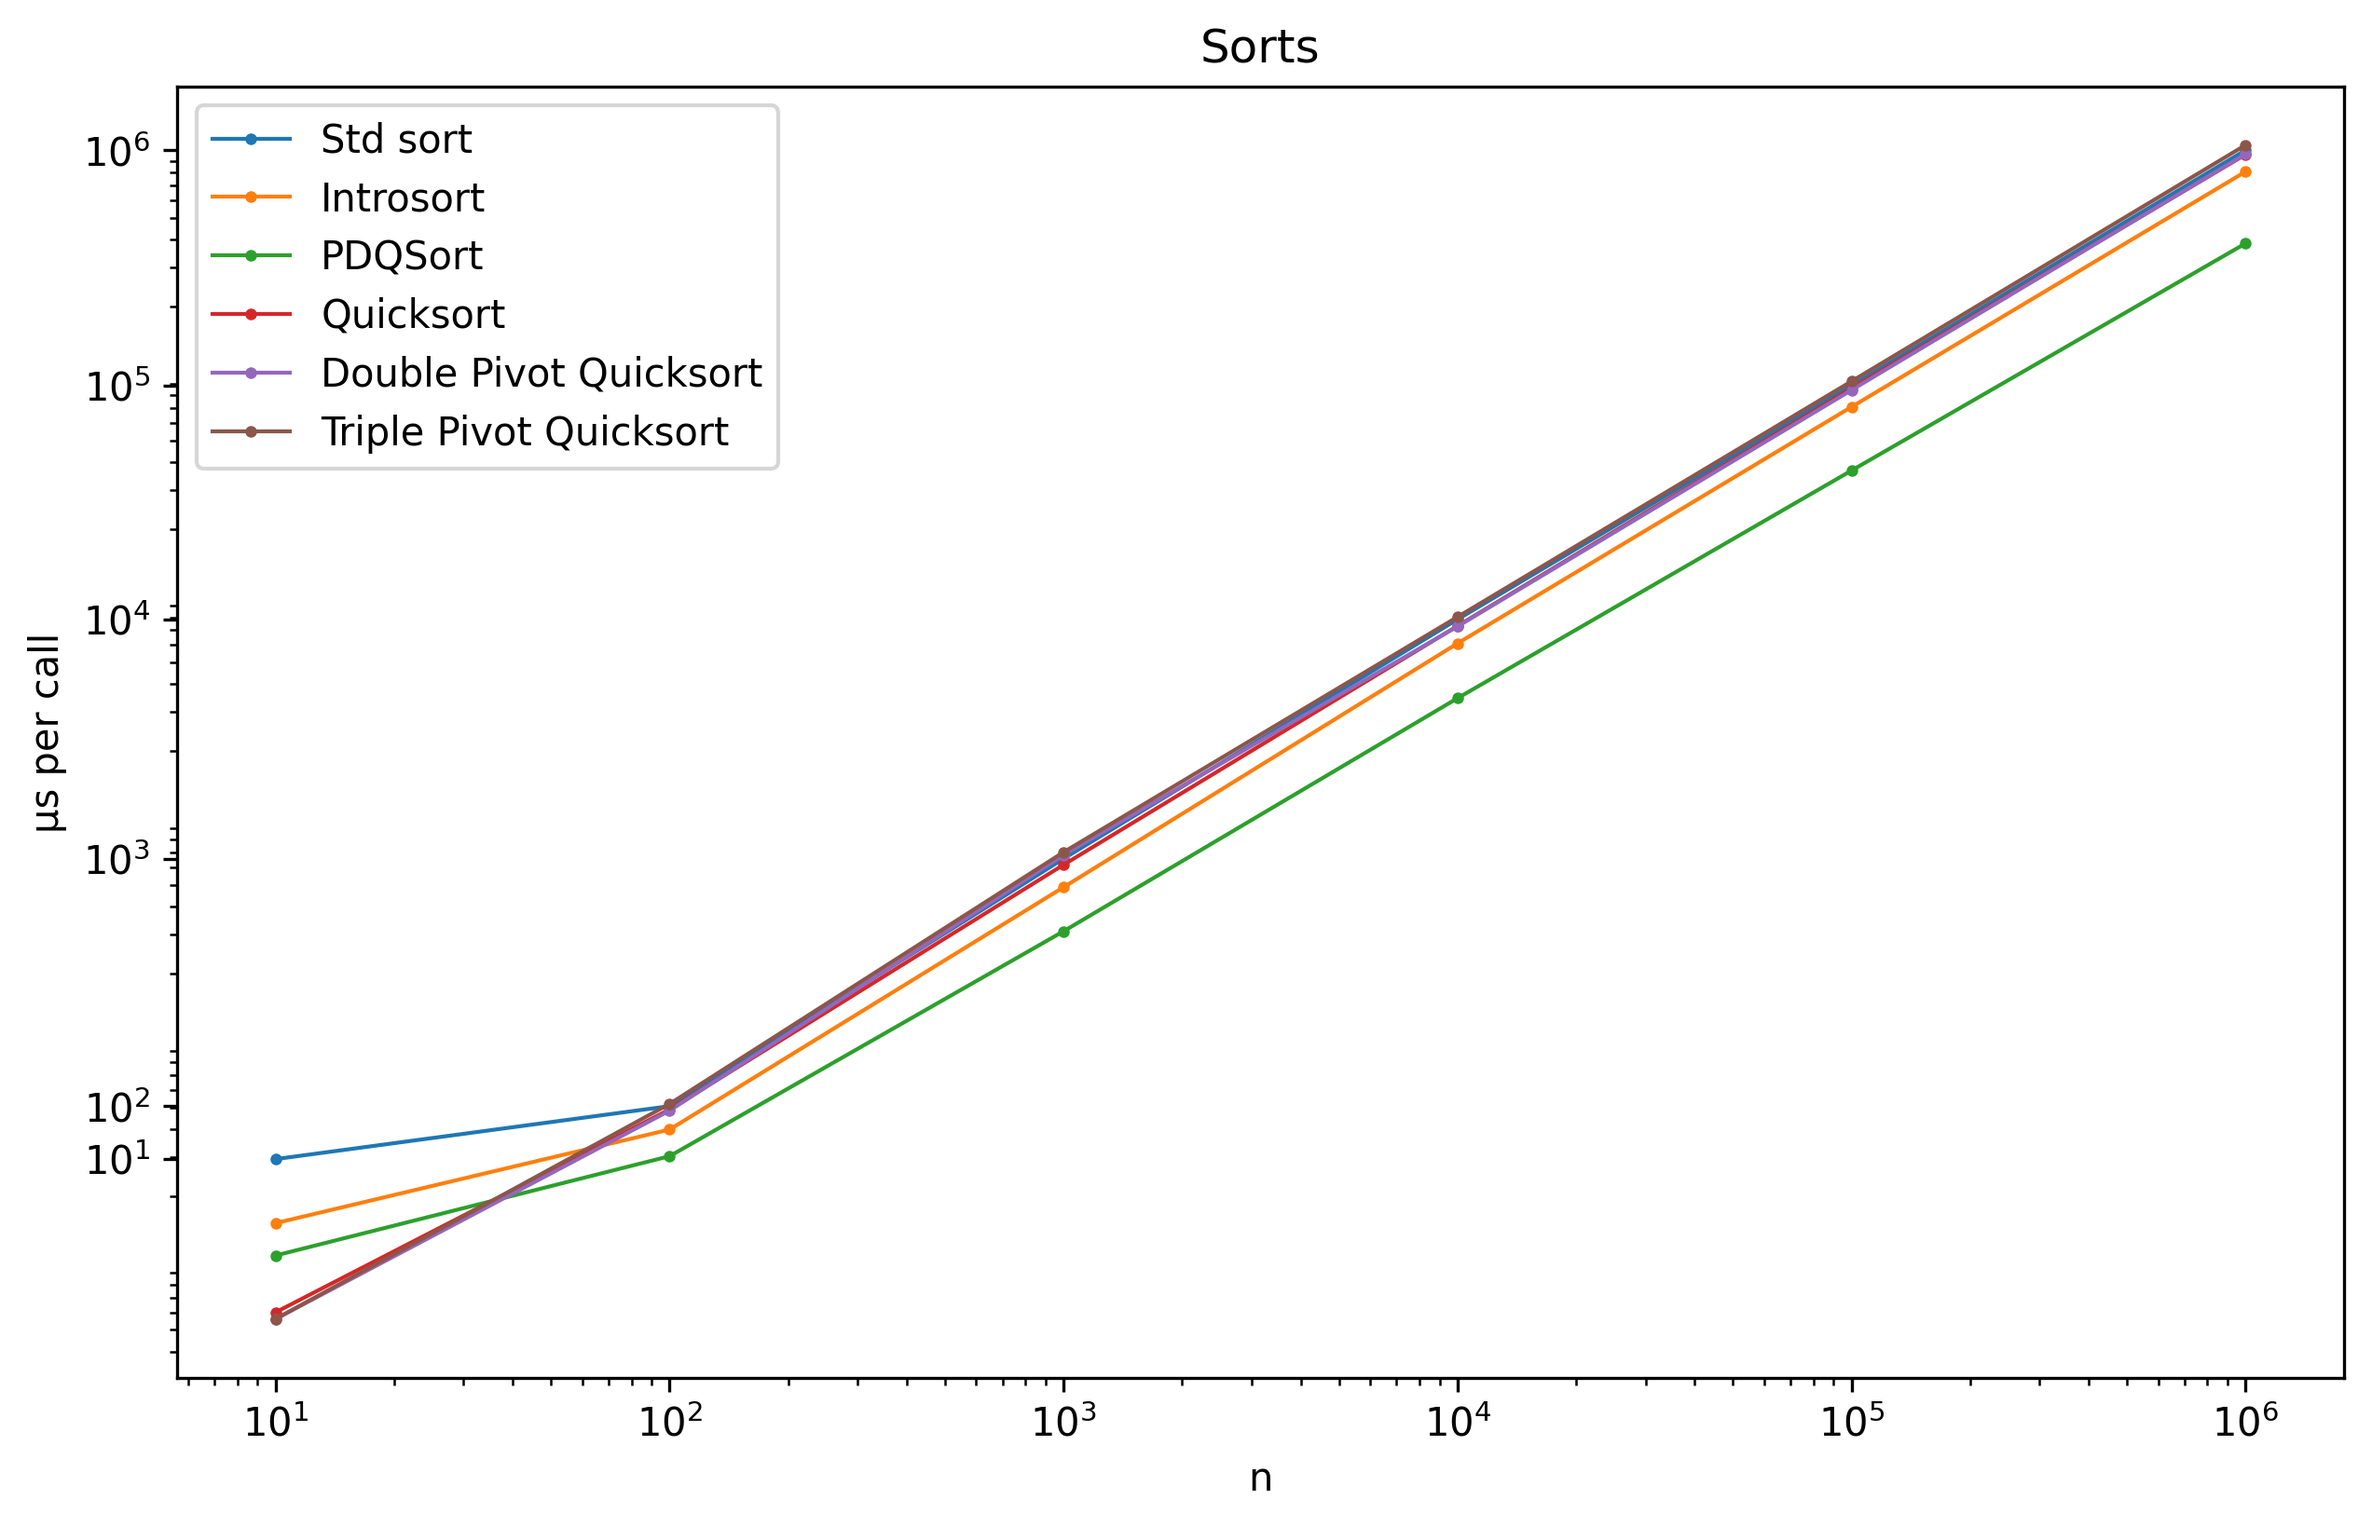
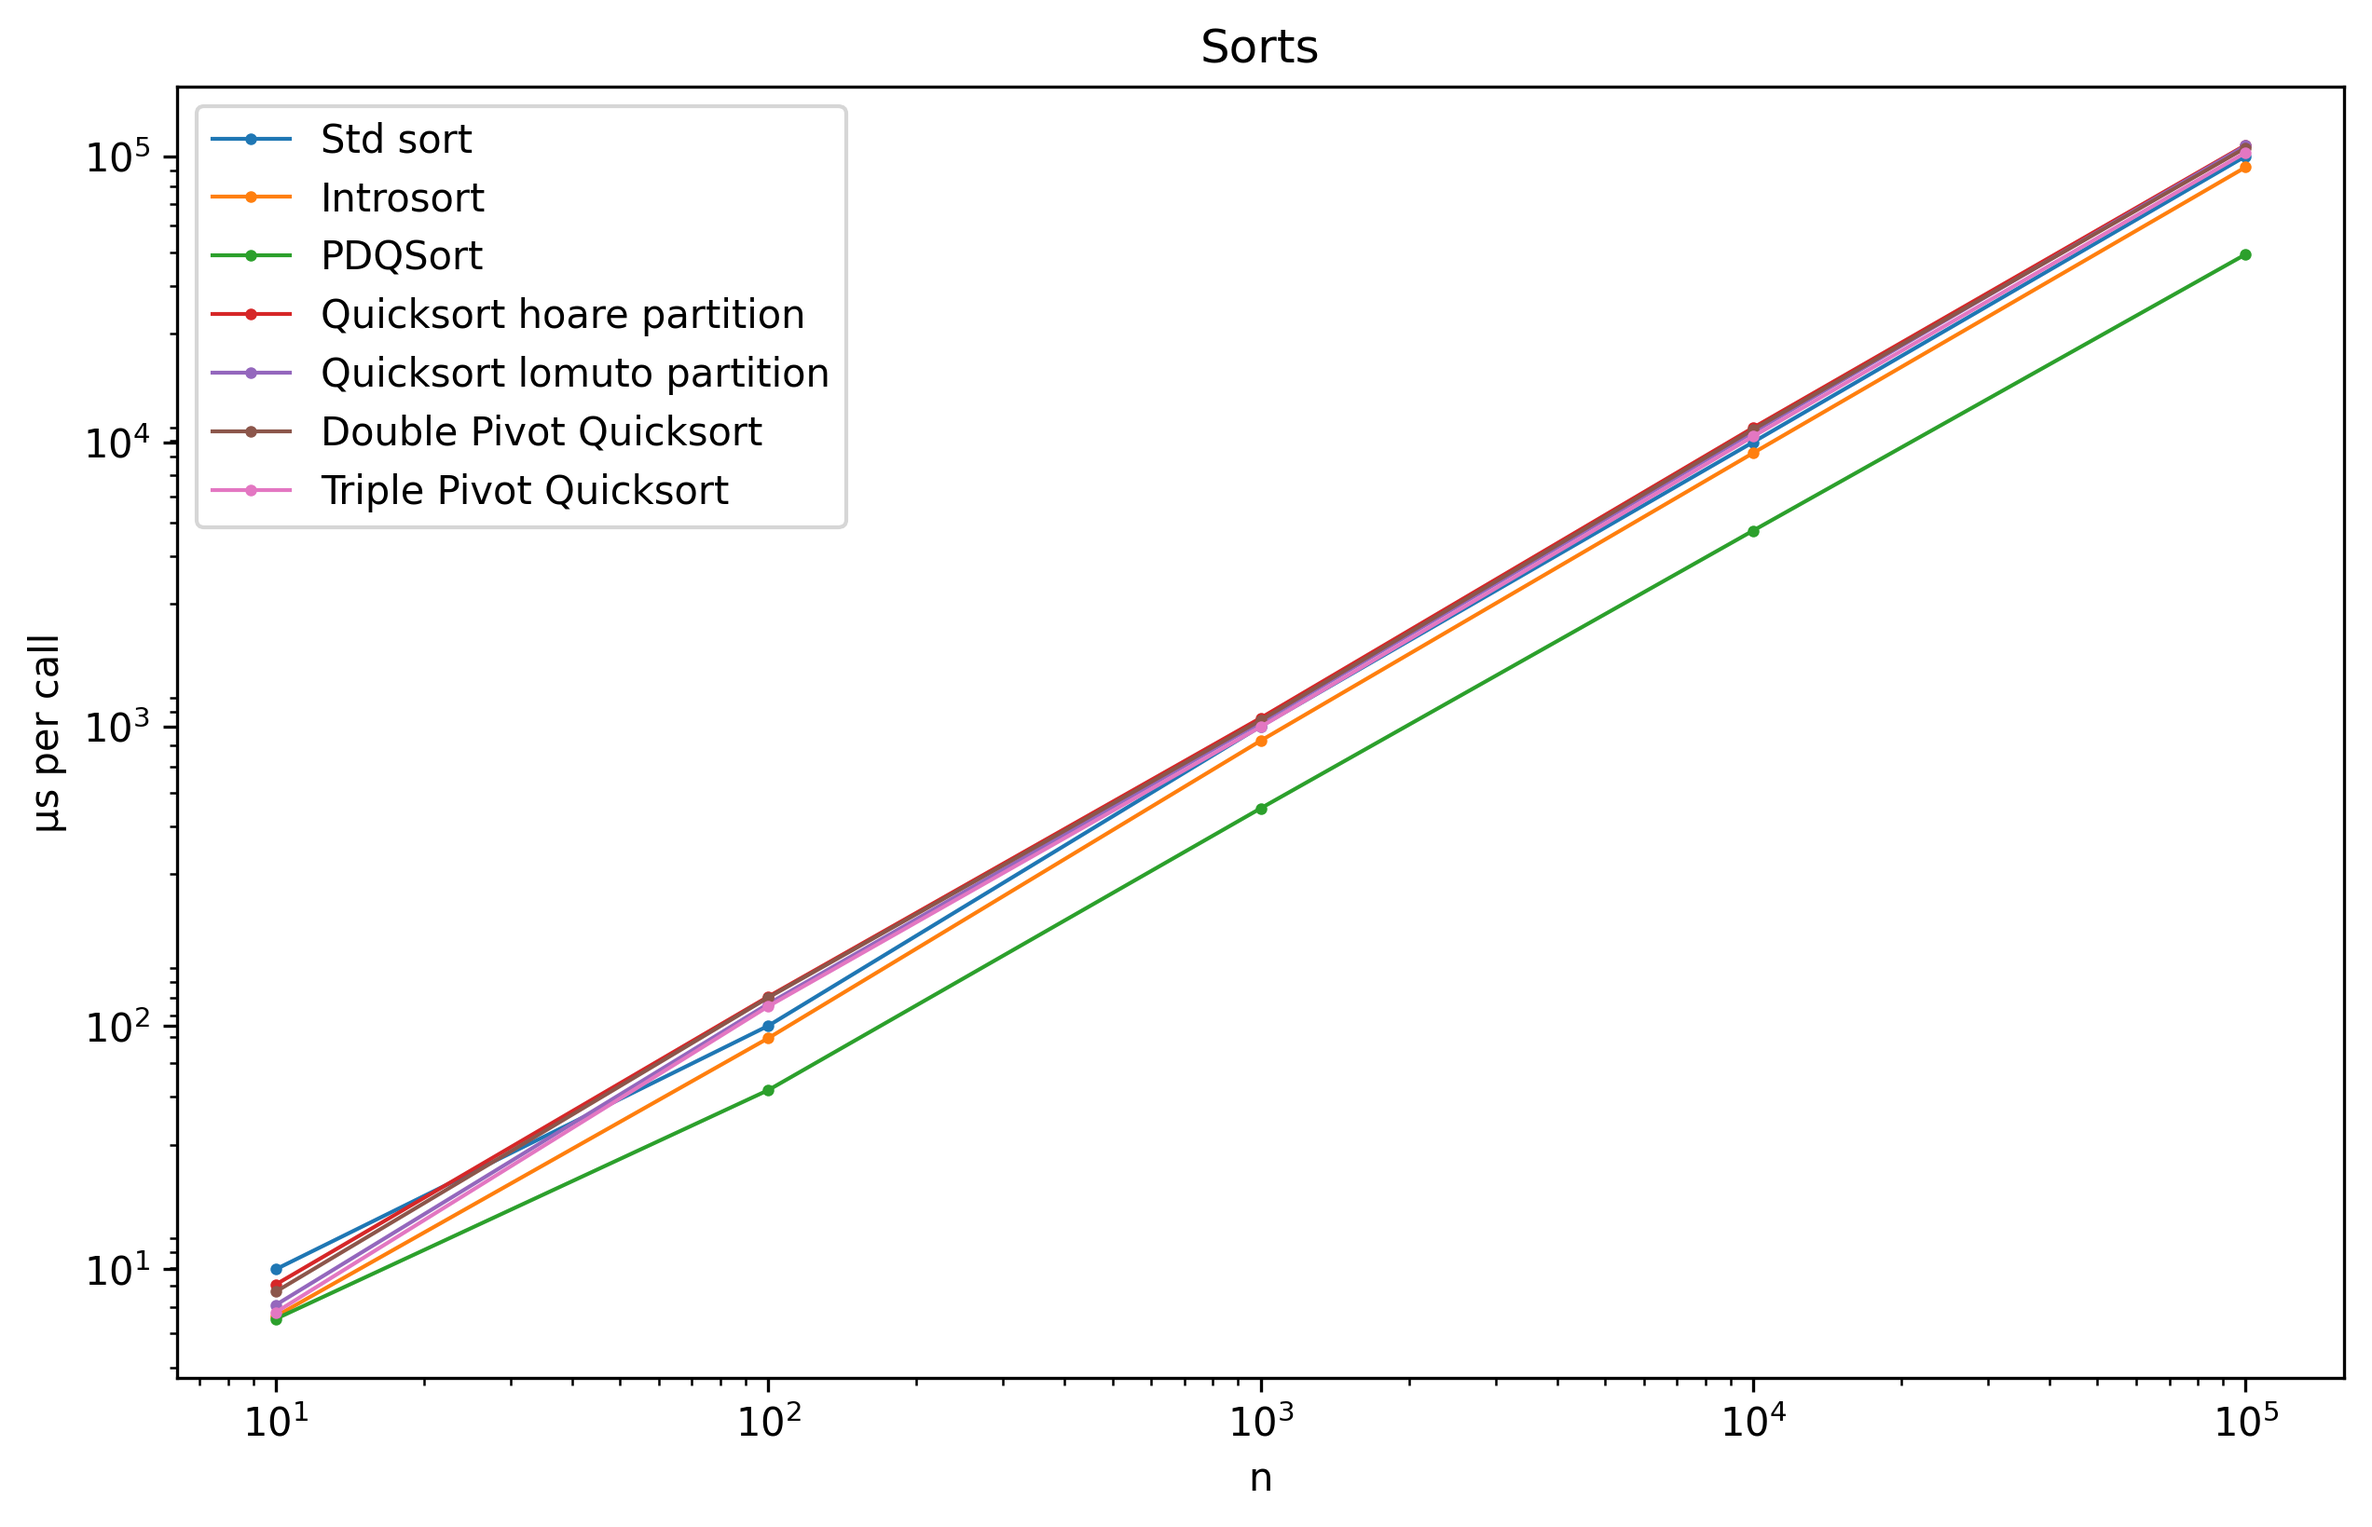
separate hoar and lomuto partition methods for single pivot qsort

diff --git a/src/qsort.rs b/src/qsort.rs
@@ -6,20 +6,18 @@ const RELEASE_INSERTION_SORT_THRESHOLD: usize = 27;
 const QUICKSORT_STACK_SIZE: usize = 64;
 
 
-fn rotate3<T: Copy>(arr: &mut [T], a: usize, b: usize, c: usize) {
-	unsafe {
-		let pa: *mut T = arr.get_unchecked_mut(a);
-		let pb: *mut T = arr.get_unchecked_mut(b);
-		let pc: *mut T = arr.get_unchecked_mut(c);
-		let tmp = *pa;
-		*pa = *pb;
-		*pb = *pc;
-		*pc = tmp;
-	}
+#[inline(always)]
+unsafe fn rotate3<T: Copy>(arr: &mut [T], a: usize, b: usize, c: usize) {
+	let pa: *mut T = arr.get_unchecked_mut(a);
+	let pb: *mut T = arr.get_unchecked_mut(b);
+	let pc: *mut T = arr.get_unchecked_mut(c);
+	let tmp = *pa;
+	*pa = *pb;
+	*pb = *pc;
+	*pc = tmp;
 }
 
-
-pub fn quick_sort<T: PartialOrd>(arr: &mut [T]) {
+pub fn quick_sort_lomuto_partition<T: PartialOrd + Copy>(arr: &mut [T]) {
 	#[cfg(debug_assertions)]
 	if arr.len() < DEBUG_INSERTION_SORT_THRESHOLD {
 		return arr.sort_by(|a, b| a.partial_cmp(b).unwrap());
@@ -30,32 +28,69 @@ pub fn quick_sort<T: PartialOrd>(arr: &mut [T]) {
 		return arr.sort_by(|a, b| a.partial_cmp(b).unwrap());
 	}
 
-	let pivot = arr.len() - 1;
-
-	// partition
-	let mut i = 0;
-	for j in 0..pivot {
-		if arr[j] <= arr[pivot] {
+	let (left, right) = (0, arr.len() - 1);
+	let pivot = arr[right];
+	let mut i = left;
+	for j in left..right {
+		if arr[j] <= pivot {
 			arr.swap(i, j);
 			i += 1;
 		}
 	}
-	arr.swap(i, pivot);
+	arr.swap(i, right);
 	// if left part has more than 1 element
 	if i > 1 {
-		quick_sort(&mut arr[..=i - 1]);
+		quick_sort_lomuto_partition(&mut arr[..=i - 1]);
 	}
 	// if right part has more than 1 element
 	if i + 2 < arr.len() {
-		quick_sort(&mut arr[i + 1..]);
+		quick_sort_lomuto_partition(&mut arr[i + 1..]);
+	}
+}
+
+pub fn quick_sort_hoare_partition<T: PartialOrd + Copy>(arr: &mut [T]) {
+	#[cfg(debug_assertions)]
+	if arr.len() < DEBUG_INSERTION_SORT_THRESHOLD {
+		return arr.sort_by(|a, b| a.partial_cmp(b).unwrap());
 	}
 
+	#[cfg(not(debug_assertions))]
+	if arr.len() < RELEASE_INSERTION_SORT_THRESHOLD {
+		return arr.sort_by(|a, b| a.partial_cmp(b).unwrap());
+	}
+
+	let pivot = arr[0];
+	let mut i = -1;
+	let mut j = arr.len() as i32;
+	loop {
+		i += 1;
+		while arr[i as usize] < pivot {
+			i += 1;
+		}
+
+		j -= 1;
+		while arr[j as usize] > pivot {
+			j -= 1;
+		}
+
+		if i >= j {
+			break;
+		}
+		arr.swap(i as usize, j as usize);
+	}
+
+	if j > 1 {
+		quick_sort_lomuto_partition(&mut arr[..=j as usize]);
+	}
+	if j + 2 < arr.len() as i32 {
+		quick_sort_hoare_partition(&mut arr[(j + 1) as usize..]);
+	}
 }
 
 // In respect to 
 // - https://github.com/veddan/rust-introsort/blob/master/src/sort.rs
 // - https://github.com/rosacris/rust-doublepivot-quicksort/blob/master/src/lib.rs
-pub fn double_pivot_quicksort<T: PartialOrd>(arr: &mut [T]) {
+pub fn double_pivot_quicksort<T: PartialOrd + Clone>(arr: &mut [T]) {
 	let (left, right) = (0, arr.len() - 1);
 
 	#[cfg(debug_assertions)]
@@ -127,7 +162,7 @@ pub fn double_pivot_quicksort<T: PartialOrd>(arr: &mut [T]) {
 	}
 }
 
-pub fn triple_pivot_quicksort<T: PartialOrd + Copy>(arr: &mut [T]) {
+pub fn triple_pivot_quicksort<T: PartialOrd + Clone + Copy>(arr: &mut [T]) {
 	#[cfg(debug_assertions)]
 	if arr.len() < DEBUG_INSERTION_SORT_THRESHOLD {
 		return arr.sort_by(|a, b| a.partial_cmp(b).unwrap());

diff --git a/src/test.rs b/src/test.rs
@@ -1,7 +1,7 @@
 #[cfg(test)]
 mod test {
 
-    use crate::util::{default_vec, is_sorted, time_it};
+    use crate::util::*;
     use crate::qsort::*;
     use crate::ty::FloatOrd;
 
@@ -91,19 +91,21 @@ mod test {
         let arr: Vec<f32> = default_vec(1_000);
 
 		let mut copy = arr.clone();
-        // copy.sort_by(|a, b| a.partial_cmp(b).unwrap());
-        let dur = time_it(|| quick_sort(&mut copy));
+        let dur = time_it(|| quick_sort_hoare_partition(&mut copy));
         assert_eq!(is_sorted(&copy), true);
-		println!("quick sort 1-pivot already sorted array cost: {:?}ns", dur);
+		println!("quick sort 1-pivot (hoare partition) already sorted array cost: {:?}ns", dur);
+
+        let mut copy = arr.clone();
+        let dur = time_it(|| quick_sort_lomuto_partition(&mut copy));
+        assert_eq!(is_sorted(&copy), true);
+		println!("quick sort 1-pivot (lomuto_partition) already sorted array cost: {:?}ns", dur);
         
         let mut copy = arr.clone();
-        // copy.sort_by(|a, b| a.partial_cmp(b).unwrap());
         let dur = time_it(|| double_pivot_quicksort(&mut copy));
         assert_eq!(is_sorted(&copy), true);
 		println!("quick sort 2-pivot already sorted array cost: {:?}ns", dur);
         
 		let mut copy = arr.clone();
-		// copy.sort_by(|a, b| a.partial_cmp(b).unwrap());
 		let dur = time_it(|| triple_pivot_quicksort(&mut copy));
 
 		assert_eq!(is_sorted(&copy), true);
@@ -119,8 +121,13 @@ mod test {
         assert_eq!(is_sorted(&copy), true);
 
 		let mut copy = arr.clone();
-        let dur = time_it(|| quick_sort(&mut copy));
-        println!("quick sort 1-pivot 10m array cost: {:?}ns", dur);
+        let dur = time_it(|| quick_sort_hoare_partition(&mut copy));
+        println!("quick sort 1-pivot (hoare partition) 10m array cost: {:?}ns", dur);
+        assert_eq!(is_sorted(&copy), true);
+
+        let mut copy = arr.clone();
+        let dur = time_it(|| quick_sort_lomuto_partition(&mut copy));
+        println!("quick sort 1-pivot (lomuto_partition) 10m array cost: {:?}ns", dur);
         assert_eq!(is_sorted(&copy), true);
 
 		let mut copy = arr.clone();

diff --git a/rust_sorts/rust_sorts/ffi.py b/rust_sorts/rust_sorts/ffi.py
@@ -4,5 +4,5 @@ import _cffi_backend
 ffi = _cffi_backend.FFI('ffi',
     _version = 0x2601,
     _types = b'\x00\x00\x05\x0D\x00\x00\x04\x03\x00\x00\x1A\x01\x00\x00\x00\x0F\x00\x00\x0D\x01\x00\x00\x00\x01',
-    _globals = (b'\x00\x00\x00\x23f32_double_pivot_quicksort',0,b'\x00\x00\x00\x23f32_introsort',0,b'\x00\x00\x00\x23f32_pdqsort',0,b'\x00\x00\x00\x23f32_quicksort',0,b'\x00\x00\x00\x23f32_std_sort',0,b'\x00\x00\x00\x23f32_triple_pivot_quicksort',0,b'\x00\x00\x00\x23f32_unstable_sort',0),
+    _globals = (b'\x00\x00\x00\x23f32_double_pivot_quicksort',0,b'\x00\x00\x00\x23f32_introsort',0,b'\x00\x00\x00\x23f32_pdqsort',0,b'\x00\x00\x00\x23f32_quicksort_hoare',0,b'\x00\x00\x00\x23f32_quicksort_lomuto',0,b'\x00\x00\x00\x23f32_std_sort',0,b'\x00\x00\x00\x23f32_triple_pivot_quicksort',0,b'\x00\x00\x00\x23f32_unstable_sort',0),
 )

diff --git a/src/lib.rs b/src/lib.rs
@@ -8,7 +8,7 @@ pub mod qsort;
 pub mod ty;
 
 use ty::FloatOrd;
-use qsort::{quick_sort, double_pivot_quicksort, triple_pivot_quicksort};
+use qsort::*;
 
 
 #[no_mangle]
@@ -39,9 +39,15 @@ pub unsafe extern "C" fn f32_unstable_sort(v: *mut f32, size: usize) {
 }
 
 #[no_mangle]
-pub unsafe extern "C" fn f32_quicksort(v: *mut f32, size: usize) {
+pub unsafe extern "C" fn f32_quicksort_hoare(v: *mut f32, size: usize) {
 	let v = std::slice::from_raw_parts_mut(v, size);
-	quick_sort(v);
+	quick_sort_hoare_partition(v);
+}
+
+#[no_mangle]
+pub unsafe extern "C" fn f32_quicksort_lomuto(v: *mut f32, size: usize) {
+	let v = std::slice::from_raw_parts_mut(v, size);
+	quick_sort_lomuto_partition(v);
 }
 
 #[no_mangle]

diff --git a/rust_sorts/sorts.py b/rust_sorts/sorts.py
@@ -18,7 +18,8 @@ SORT_FUNCS = {
     "Std sort": rust_sorts.lib.f32_std_sort,
     "Introsort": rust_sorts.lib.f32_introsort,
     "PDQSort": rust_sorts.lib.f32_pdqsort,
-    "Quicksort": rust_sorts.lib.f32_quicksort,
+    "Quicksort hoare partition": rust_sorts.lib.f32_quicksort_hoare,
+    "Quicksort lomuto partition": rust_sorts.lib.f32_quicksort_lomuto,
     "Double Pivot Quicksort": rust_sorts.lib.f32_double_pivot_quicksort,
     "Triple Pivot Quicksort": rust_sorts.lib.f32_triple_pivot_quicksort,
 }

diff --git a/src/ty.rs b/src/ty.rs
@@ -6,6 +6,7 @@ use rand::distributions::Standard;
 use rand::prelude::Distribution;
 
 #[derive(PartialEq, PartialOrd, Debug, Clone, Copy)]
+#[repr(transparent)]  // guarantees same layout as a single f32
 pub struct FloatOrd(f32);
 
 impl Deref for FloatOrd {
